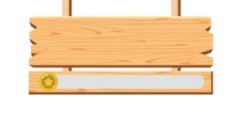
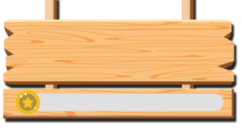
fix infoPanel visual

diff --git a/Harvest_Moon/src/Main/UI.java b/Harvest_Moon/src/Main/UI.java
@@ -28,6 +28,8 @@ public class UI {
     public UI(GamePanel gp){
         this.gp = gp;
         // arial_40 = new Font("Arial", Font.PLAIN, 40);
+        this.energyBar = new EnergyBar(70, 50, 200, 20, 10, gp.player.maxEnergy);
+        
     }
 
    
@@ -48,33 +50,7 @@ public class UI {
         }
 
         if(gp.gameState == gp.playState){
-
-            //logo karakter
-
-            //ini aku mau nambain kalo dia energy > 50 pake haappy yang mata nya buka kalo ga pake yang sleep
-            BufferedImage playerIcon = null;
-            try {
-                playerIcon = ImageIO.read(getClass().getResourceAsStream("/assets/player/SLEEP/" + gp.player.getPath() + "kanan-0.png"));
-            } catch (IOException e) {
-                System.out.println("Error loading player image UI: " + e.getMessage());
-            }
-            g2.drawImage(playerIcon, 3, 8, gp.tileSize*1 + 15, gp.tileSize *2 + 15, null);
-            //energy bar and name
-            g2.setFont(g2.getFont().deriveFont(Font.BOLD, 20F));
-            g2.drawString(gp.player.name, 70, 40);
-            this.energyBar = new EnergyBar(70, 50, 200, 20, 10, gp.player.maxEnergy);
-            energyBar.setValue(gp.player.energy);
-            energyBar.draw(g2);
-
-            //info panel
-            BufferedImage infoPanel = null;
-            try {
-                infoPanel = ImageIO.read(getClass().getResourceAsStream("/assets/ui/infoPanel.png"));
-            } catch (IOException e) {
-                System.out.println("Error loading info panel image UI: " + e.getMessage());
-            }
-            g2.drawImage(infoPanel, gp.screenWidth - 250, 0, 242, 128, null);
-
+            drawGameUI();
 
         }
 
@@ -85,6 +61,7 @@ public class UI {
         if(gp.gameState == gp.dialogueState){
             drawDialogueScreen();
         }
+
 
 
 
@@ -109,6 +86,37 @@ public class UI {
         //         messageOn = false;
         //     }
         // }
+    }
+
+
+    public void drawGameUI(){
+            //logo karakter
+
+            //ini aku mau nambain kalo dia energy > 50 pake haappy yang mata nya buka kalo ga pake yang sleep
+            BufferedImage playerIcon = null;
+            try {
+                playerIcon = ImageIO.read(getClass().getResourceAsStream("/assets/player/SLEEP/" + gp.player.getPath() + "kanan-0.png"));
+            } catch (IOException e) {
+                System.out.println("Error loading player image UI: " + e.getMessage());
+            }
+            g2.drawImage(playerIcon, 3, 8, gp.tileSize*1 + 15, gp.tileSize *2 + 15, null);
+            //energy bar and name
+            g2.setFont(g2.getFont().deriveFont(Font.BOLD, 20F));
+            g2.drawString(gp.player.name, 70, 40);
+            this.energyBar.maxValue = gp.player.maxEnergy;
+            energyBar.setValue(gp.player.energy);
+            energyBar.draw(g2);
+
+            //info panel
+            BufferedImage infoPanel = null;
+            try {
+                infoPanel = ImageIO.read(getClass().getResourceAsStream("/assets/ui/infoPanel.png"));
+            } catch (IOException e) {
+                System.out.println("Error loading info panel image UI: " + e.getMessage());
+            }
+            g2.drawImage(infoPanel, gp.screenWidth - 250, 0, 242, 128, null);
+
+
     }
 
     public void drawTitleScreen(){

diff --git a/Harvest_Moon/src/Main/EnergyBar.java b/Harvest_Moon/src/Main/EnergyBar.java
@@ -8,7 +8,7 @@ import java.awt.RadialGradientPaint;
 
 public class EnergyBar {
     private int x, y, width, height, cornerRadius;
-    private int maxValue, currentValue;
+    public int maxValue, currentValue;
     private Color backgroundColor = new Color(120, 0, 0);
     private Color fillColor = new Color(0, 180, 220);
     private Color borderColor = Color.WHITE;
